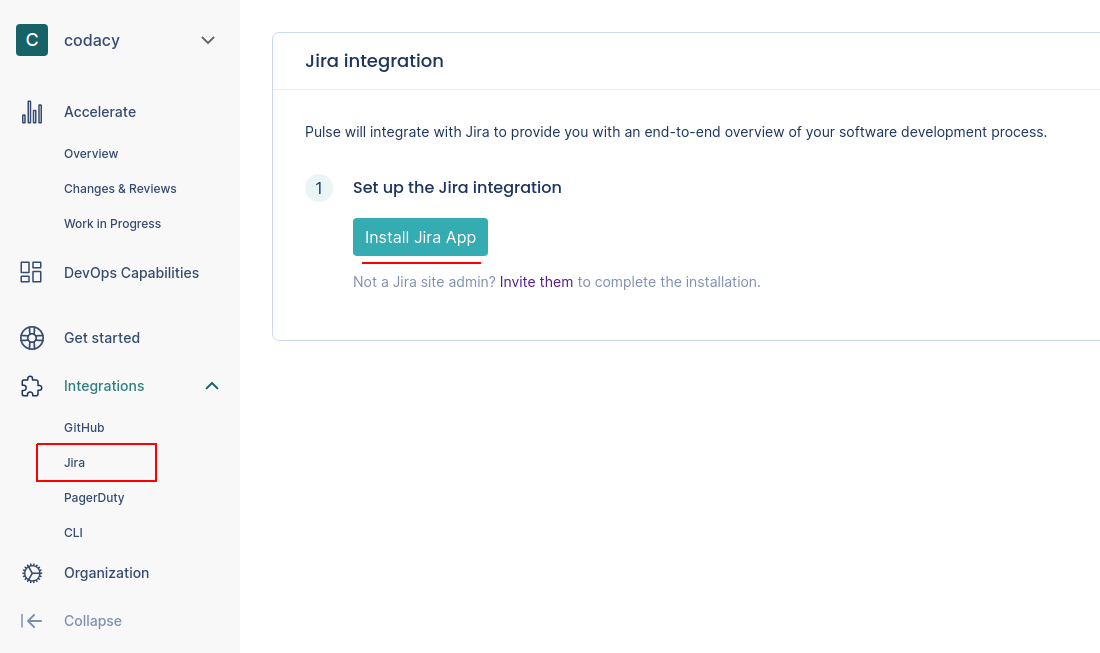
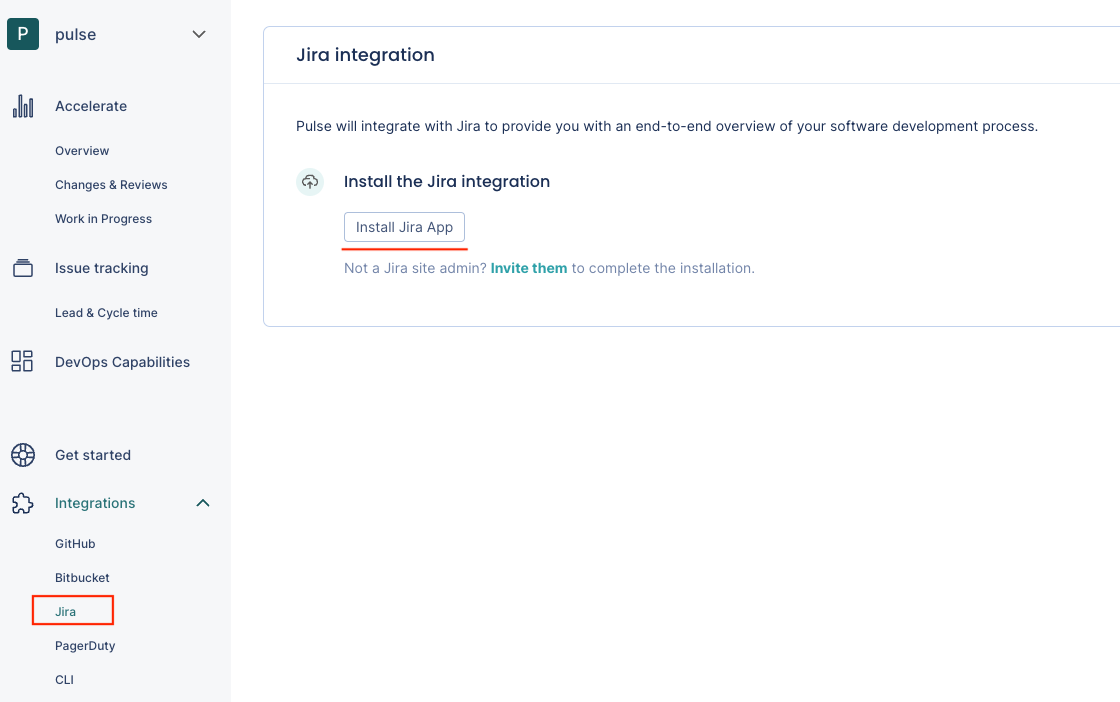
feat: Update integrations' screenshots PUL-1364 (#163)
* Update screenshots

* clean: Reduce screenshot scope to the necessary

* clean: Update PagerDuty integration screenshot

* clean: Update Jira integration screenshot; fix logo PagerDuty screenshot

* fix: Fix vale errors

* fix: Update screenshot following style guide to obscure information

* fix: Fix cut text in screenshot

* Update docs/one-click-integrations/github-integration.md

* clean: Add "rebase" to vale accept list

diff --git a/docs/one-click-integrations/github-integration.md b/docs/one-click-integrations/github-integration.md
@@ -23,17 +23,17 @@ To set up the GitHub integration:
     !!! important
         You can only install the Pulse GitHub App on an organization and not on your personal account.
 
-    ![Installing the Pulse GitHub App](images/ghi-installing.png)
+    ![Installing the Pulse GitHub App](images/github-installing.png)
 
 1.  Wait until you get a confirmation that Pulse successfully created the integration and the webhook on GitHub.
 
-    ![Pulse GitHub integration set up successfully](images/ghi-ok.png)
+    ![Pulse GitHub integration set up successfully](images/github-ok.png)
 
     If there is an error please [contact support](mailto:pulsesupport@codacy.com).
 
 1.  Choose the strategy to detect deployments that best fits your workflows, or turn off the automatic deployment detection. See the section below for a detailed description of each option.
 
-    ![Choosing a deployment detection strategy](images/ghi-strategy.png)
+    ![Choosing a deployment detection strategy](images/github-strategy.png)
 
 ## Automatic deployment detection strategies {: id="deployment-detection-strategy"}
 
@@ -65,7 +65,7 @@ The following is a detailed description of how the Pulse GitHub integration auto
 -   The set of changes that belong to a deployment is the list of commits between the tag of that deployment and the previous tag. Because of this, Pulse discards:
 
     -   The first SemVer tag in the repository since there is no previous tag to compare with.
-    -   Any tag that does not have a common ancestor (commit) with its previous tag, since Pulse cannot obtain the changes between them.
+    -   Any tag that doesn't have a common ancestor (commit) with its previous tag, since Pulse can't obtain the changes between them.
 
 -   Pulse associates all GitHub teams of the person who creates a Git tag with the corresponding deployment, excluding teams with less than two members. Pulse only takes changes to GitHub teams into account on Git tags created after those changes.
 
@@ -135,9 +135,9 @@ The table below lists the data that the GitHub integration collects from your Gi
 </tr>
 </table>
 
-<sup><span id="commit-author-date">1</span></sup>: Pulse uses the commit author's date since it is more accurate. The committer date can be changed (e.g.: rebases) and stop reflecting the real creation date of the change.
+<sup><span id="commit-author-date">1</span></sup>: Pulse uses the commit author's date since it's more accurate. The committer date can be changed (for example, with a rebase) and stop reflecting the real creation date of the change.
 
-<sup><span id="deployment-teams">2</span></sup>: Adding a new team or changing the composition of a team on GitHub only affects new data from that moment onwards and doesn't have an immediate impact on the dashboards. Also, deleted teams on GitHub are still visible in Pulse.
+<sup><span id="deployment-teams">2</span></sup>: Adding a new team or changing the composition of a team on GitHub only affects new data starting from that moment and doesn't have an immediate impact on the dashboards. Also, deleted teams on GitHub are still visible in Pulse.
 
 ## Which permissions does Pulse need from GitHub? {: id="gh-permissions"}
 
